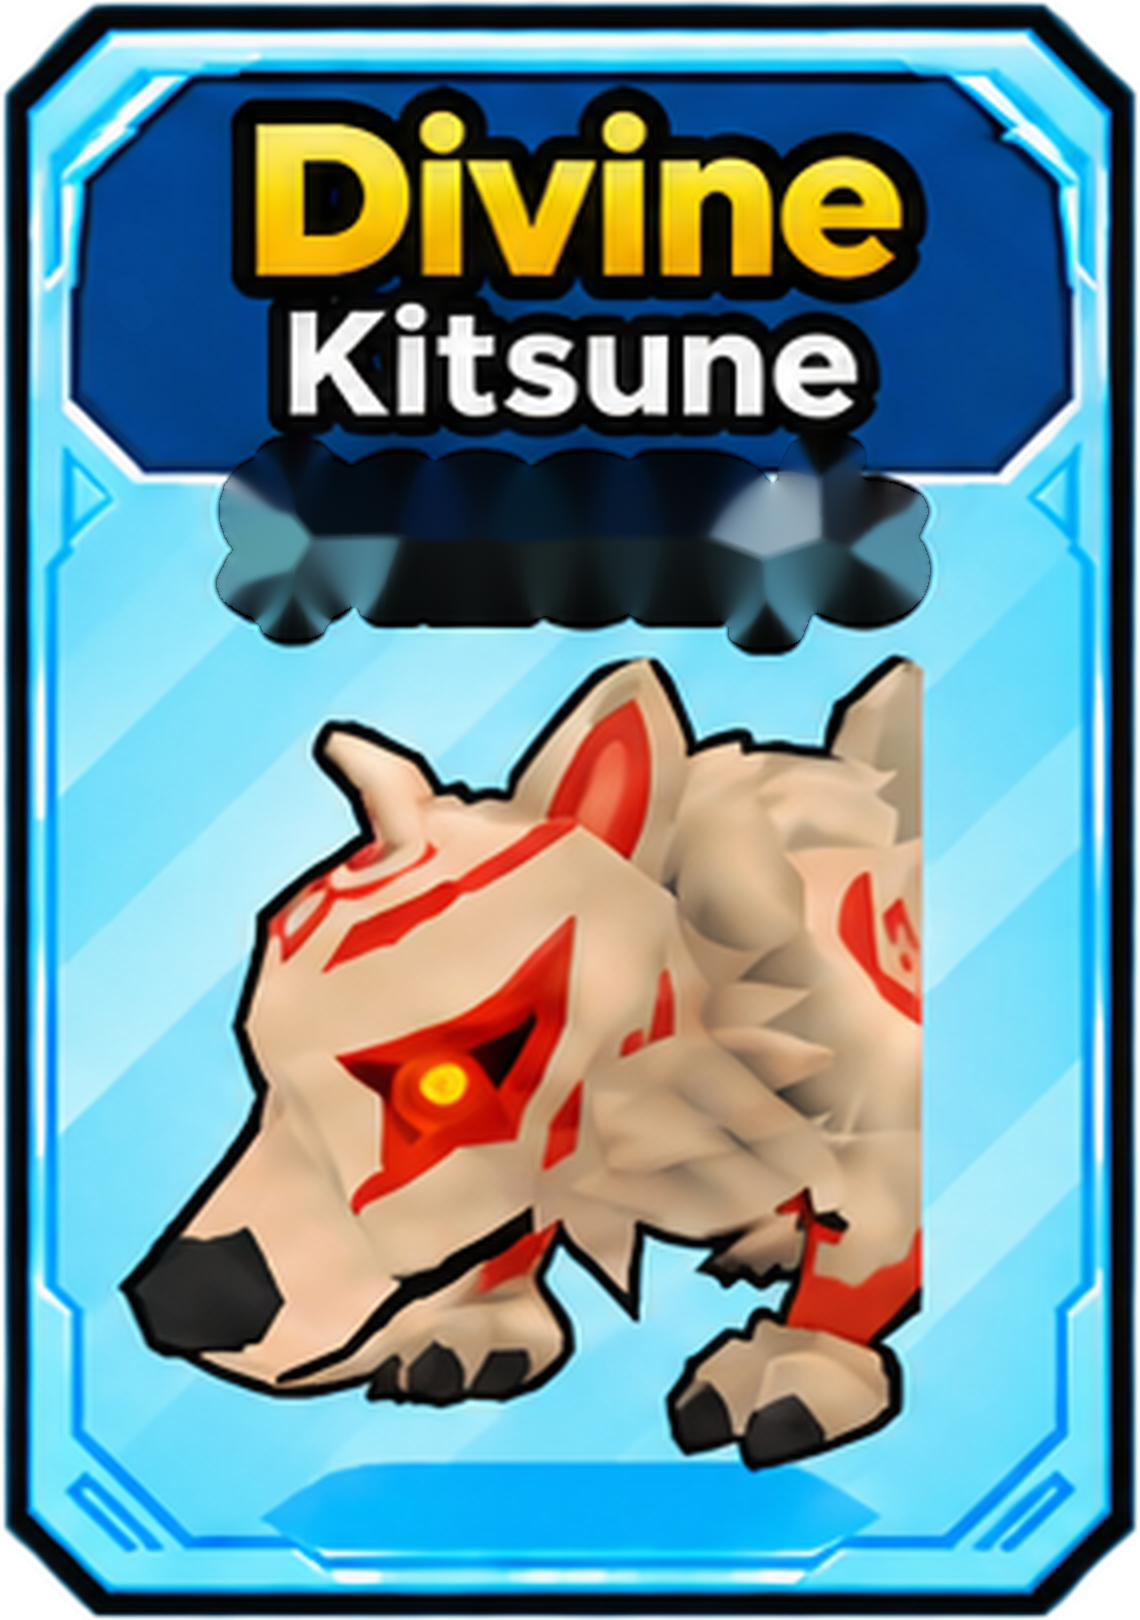
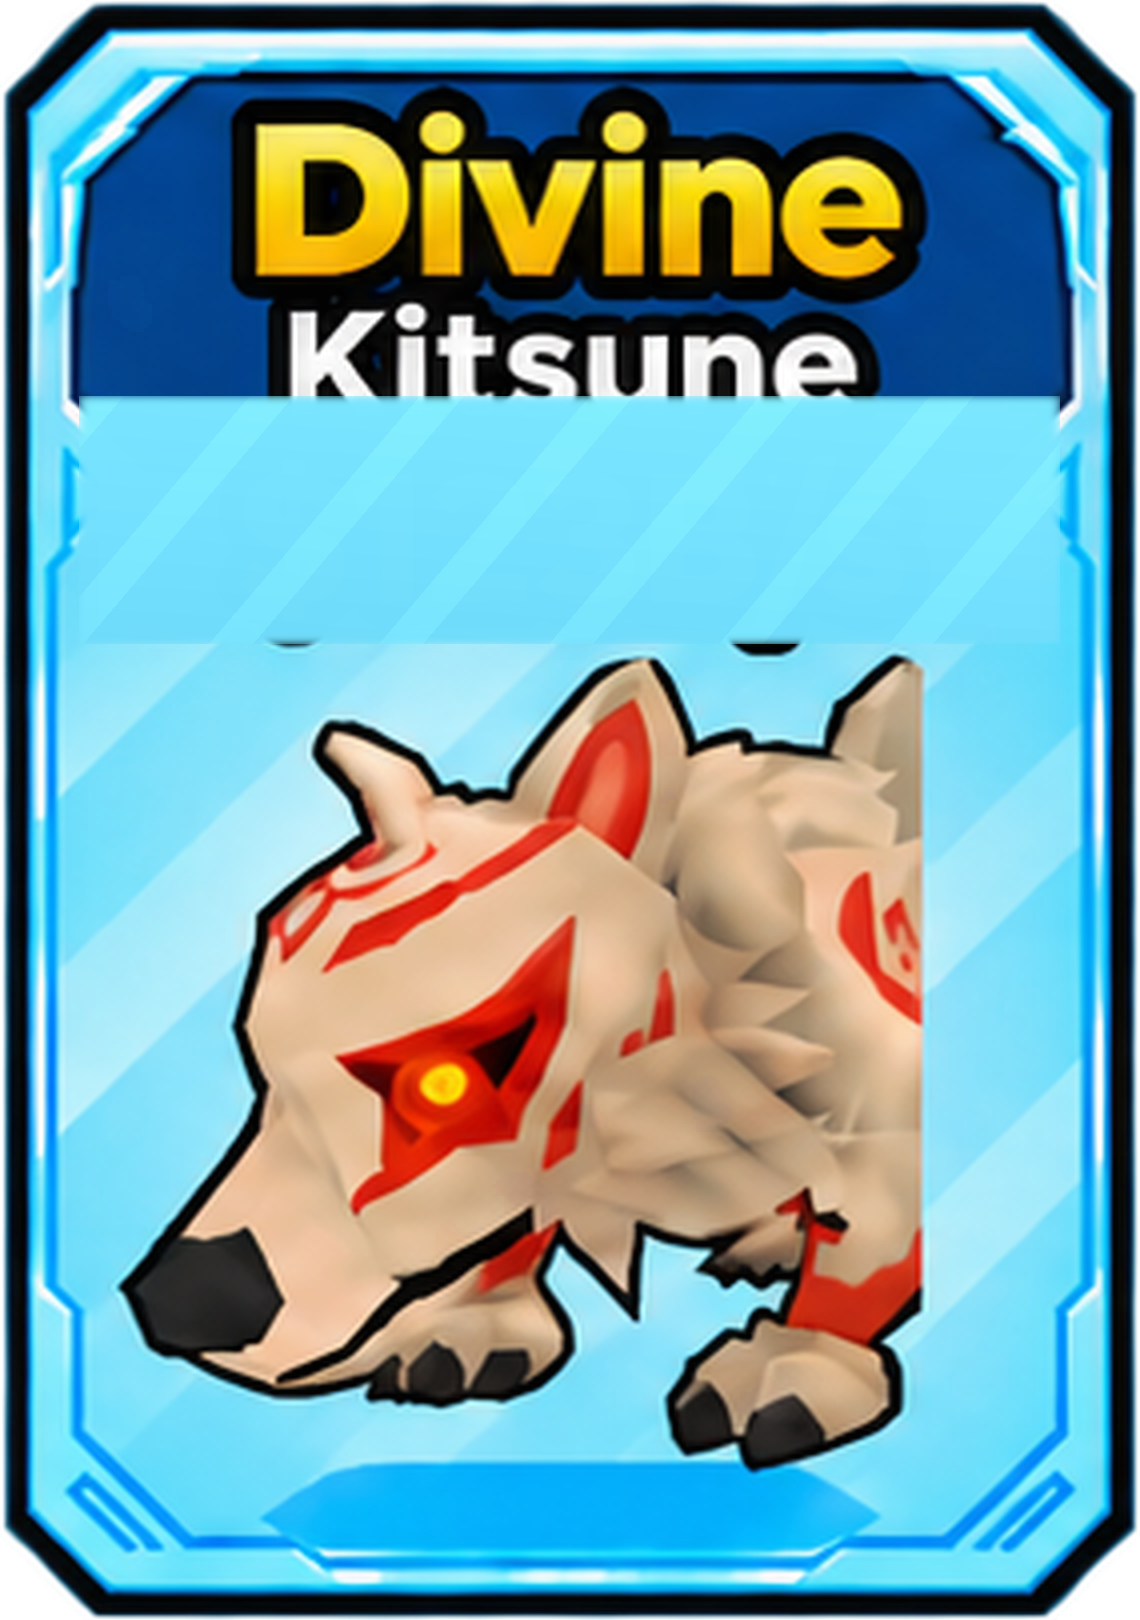
dfds

Changed region(s): [[0.0614, 0.2469, 0.9518, 0.4012]]

diff --git a/config.js b/config.js
@@ -1,1 +1,1 @@
-window.SAE_CONFIG={"version":"5.20-remove-old-price","cards":[{"id":"kitsune","name":"Kitsune","base":1800000000,"box":[22,93,285,405],"dynamic":true},{"id":"luminous_cthulhu","name":"Luminous Cthulhu","base":13000000000,"box":[320,92,292,407],"dynamic":true},{"id":"archangel","name":"ArchAngel","base":5000000000,"box":[625,92,286,407],"dynamic":true},{"id":"aetheron","name":"Aetheron","base":6900000000,"box":[922,92,293,407],"dynamic":true},{"id":"world_burner_cthulhu","name":"World Burner Cthulhu","base":5000000000,"box":[1224,92,294,407],"dynamic":true},{"id":"shattered_colossus","name":"Shattered Colossus","base":3500000000,"box":[21,515,286,407],"dynamic":true},{"id":"nightflame","name":"Nightflame","base":3000000000,"box":[320,516,293,407],"dynamic":true},{"id":"luminous_eggs","name":"Luminous Eggs","base":null,"box":[625,516,285,406],"dynamic":false},{"id":"cthulhu","name":"Cthulhu","base":5000000000,"box":[923,516,292,406],"dynamic":true},{"id":"mecha_dreadscale","name":"Mecha Dreadscale","base":4000000000,"box":[1230,516,285,406],"dynamic":true}],"mutations":{"silver":{"label":"Silver","multiplier":1.2},"golden":{"label":"Golden","multiplier":2.5},"rainbow":{"label":"Rainbow","multiplier":3.5},"bloom":{"label":"Bloom","multiplier":1.25},"spirit_bloom":{"label":"Spirit Bloom","multiplier":2.5},"parasite":{"label":"Parasite","multiplier":3.0},"fractured":{"label":"Fractured","multiplier":2.75}},"backend":"https://steal-an-egg-overlay-backend.leducho1900.workers.dev","room":"sae_421045db4089999b697c52d464c44d3a"};
+window.SAE_CONFIG={"version":"5.21-match-bg-price-fix","cards":[{"id":"kitsune","name":"Kitsune","base":1800000000,"box":[22,93,285,405],"dynamic":true},{"id":"luminous_cthulhu","name":"Luminous Cthulhu","base":13000000000,"box":[320,92,292,407],"dynamic":true},{"id":"archangel","name":"ArchAngel","base":5000000000,"box":[625,92,286,407],"dynamic":true},{"id":"aetheron","name":"Aetheron","base":6900000000,"box":[922,92,293,407],"dynamic":true},{"id":"world_burner_cthulhu","name":"World Burner Cthulhu","base":5000000000,"box":[1224,92,294,407],"dynamic":true},{"id":"shattered_colossus","name":"Shattered Colossus","base":3500000000,"box":[21,515,286,407],"dynamic":true},{"id":"nightflame","name":"Nightflame","base":3000000000,"box":[320,516,293,407],"dynamic":true},{"id":"luminous_eggs","name":"Luminous Eggs","base":null,"box":[625,516,285,406],"dynamic":false},{"id":"cthulhu","name":"Cthulhu","base":5000000000,"box":[923,516,292,406],"dynamic":true},{"id":"mecha_dreadscale","name":"Mecha Dreadscale","base":4000000000,"box":[1230,516,285,406],"dynamic":true}],"mutations":{"silver":{"label":"Silver","multiplier":1.2},"golden":{"label":"Golden","multiplier":2.5},"rainbow":{"label":"Rainbow","multiplier":3.5},"bloom":{"label":"Bloom","multiplier":1.25},"spirit_bloom":{"label":"Spirit Bloom","multiplier":2.5},"parasite":{"label":"Parasite","multiplier":3.0},"fractured":{"label":"Fractured","multiplier":2.75}},"backend":"https://steal-an-egg-overlay-backend.leducho1900.workers.dev","room":"sae_421045db4089999b697c52d464c44d3a"};

diff --git a/control.html b/control.html
@@ -3,7 +3,7 @@
 <head>
 <meta charset="utf-8"><meta name="viewport" content="width=device-width,initial-scale=1">
 <meta http-equiv="Cache-Control" content="no-cache, no-store, must-revalidate">
-<title>Steal An Egg Control V5.20</title>
+<title>Steal An Egg Control V5.21</title>
 <style>
 *{box-sizing:border-box}
 body{margin:0;background:#0b0d11;color:#fff;font-family:Arial,Helvetica,sans-serif}
@@ -49,7 +49,7 @@ button{border:0;border-radius:10px;padding:10px 13px;font-weight:900;cursor:poin
 @media(max-width:800px){.grid{grid-template-columns:1fr}.muts{grid-template-columns:repeat(2,1fr)}}
 </style>
 </head><body><main>
-<h1>🥚 Steal An Egg Control V5.20 — FIXED</h1>
+<h1>🥚 Steal An Egg Control V5.21 — FIXED</h1>
 <div class="sub"><span class="syncstatus" id="syncStatus">● Đang kiểm tra D1...</span> 
 Weight nhập <b>1–1000</b>. <b>Weight 1 = đúng tiền gốc</b>; tăng Weight thì tự nhân theo đường cong size.
 Mutation cộng bonus theo hệ số. Weight/Mutation tự tính tiền. Đồng bộ qua Cloudflare D1, không dùng Cache API. Weight/Mutation/Bật-Tắt/x2–x10 cập nhật chung một state; x1 không hiện nhãn, Luminous Eggs không có nhãn số lượng.
@@ -481,7 +481,7 @@ allOn.onclick=()=>{for(const c of CFG.cards)state.cards[c.id].enabled=true;saveA
 allOff.onclick=()=>{for(const c of CFG.cards)state.cards[c.id].enabled=false;saveAndPublish()};
 reset.onclick=()=>{for(const c of CFG.cards){state.cards[c.id].weight=1;state.cards[c.id].mutations=[];state.cards[c.id].qty=1}saveAndPublish()};
 copyLink.onclick=async()=>{
- const u=new URL("index.html?v=520",location.href).href;
+ const u=new URL("index.html?v=521",location.href).href;
  try{await navigator.clipboard.writeText(u);copyLink.textContent="ĐÃ COPY";setTimeout(()=>copyLink.textContent="Copy Overlay Link",1200)}
  catch(_e){prompt("Copy link Overlay:",u)}
 };

diff --git a/index.html b/index.html
@@ -4,7 +4,7 @@
 <meta charset="utf-8">
 <meta name="viewport" content="width=device-width,initial-scale=1">
 <meta http-equiv="Cache-Control" content="no-cache, no-store, must-revalidate">
-<title>Steal An Egg Overlay V5.20 REMOVE OLD PRICE</title>
+<title>Steal An Egg Overlay V5.21 MATCH BG PRICE FIX</title>
 <style>
 *{box-sizing:border-box}
 html,body{margin:0;width:100%;height:100%;background:transparent!important;overflow:hidden}
@@ -150,7 +150,7 @@ body{font-family:Arial,Helvetica,sans-serif}
   position:absolute;
   left:2.5%;
   right:2.5%;
-  top:25.1%;
+  top:25.0%;
   height:14.0%;
   z-index:31;
   display:flex;
